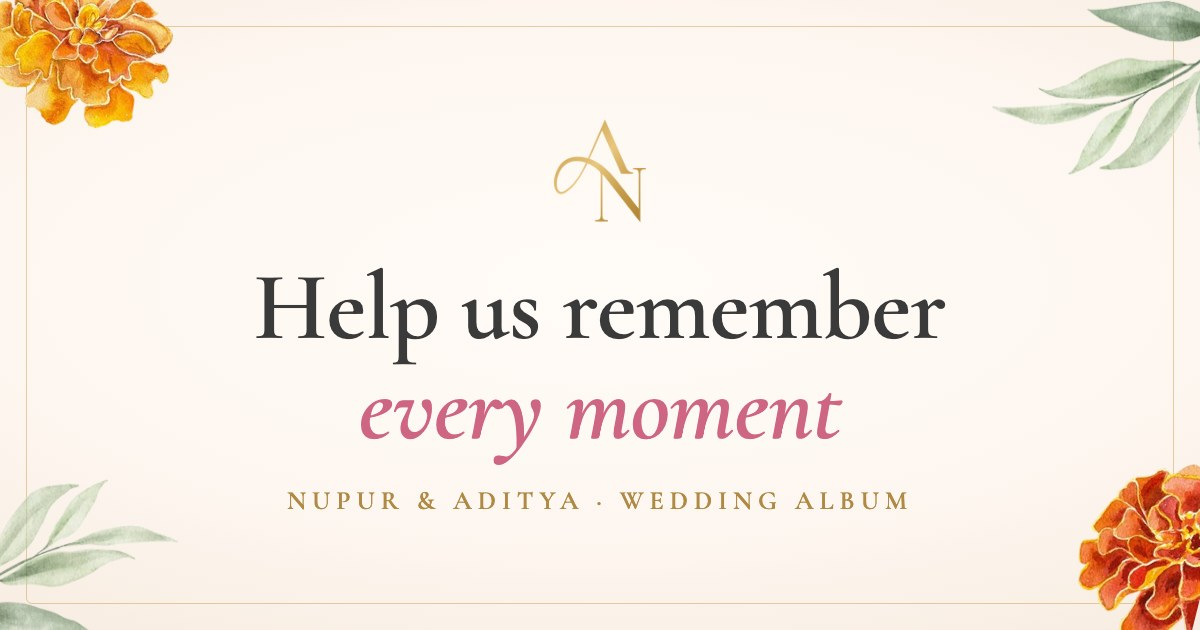
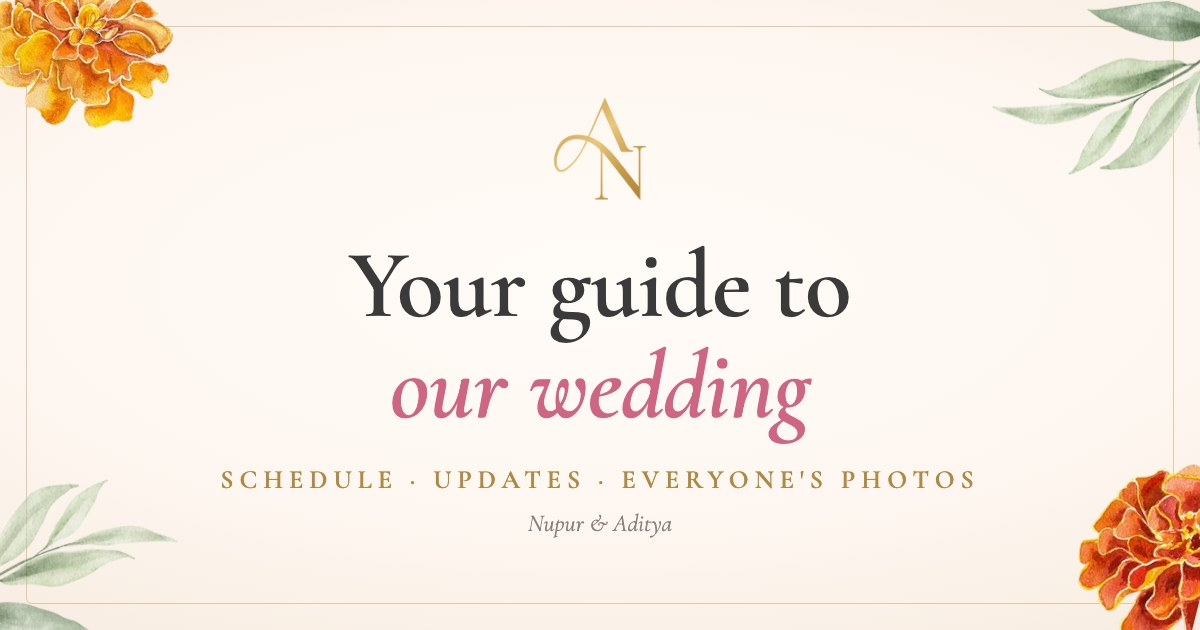
Photos site: link preview says 'Your guide to our wedding'

Changed region(s): [[0.185, 0.3921, 0.8325, 0.8444], [0.4625, 0.1508, 0.555, 0.3619]]

diff --git a/photos/index.html b/photos/index.html
@@ -9,24 +9,24 @@
 <!-- Google Drive image links refuse requests that carry a Referer header -->
 <meta name="referrer" content="no-referrer">
 <meta property="og:type" content="website">
-<meta property="og:title" content="Nupur &amp; Aditya · Wedding Album">
-<meta property="og:description" content="Share the moments you captured with us.">
-<meta property="og:image" content="https://nupurandaditya.online/photos/og.jpg?v=2">
-<meta property="og:image:secure_url" content="https://nupurandaditya.online/photos/og.jpg?v=2">
+<meta property="og:title" content="Nupur &amp; Aditya · Your guide to our wedding">
+<meta property="og:description" content="The schedule, updates from us, and everyone's photos, all in one place.">
+<meta property="og:image" content="https://nupurandaditya.online/photos/og.jpg?v=3">
+<meta property="og:image:secure_url" content="https://nupurandaditya.online/photos/og.jpg?v=3">
 <meta property="og:image:type" content="image/jpeg">
 <meta property="og:image:width" content="1200">
 <meta property="og:image:height" content="630">
-<meta property="og:image:alt" content="Help us remember every moment · Nupur & Aditya wedding album">
+<meta property="og:image:alt" content="Your guide to our wedding · Nupur &amp; Aditya">
 <meta property="og:url" content="https://nupurandaditya.online/photos/">
 <meta name="twitter:card" content="summary_large_image">
-<meta name="twitter:image" content="https://nupurandaditya.online/photos/og.jpg?v=2">
+<meta name="twitter:image" content="https://nupurandaditya.online/photos/og.jpg?v=3">
 <meta name="theme-color" content="#FEF7F1">
 <link rel="icon" type="image/png" href="/assets/an-monogram.png">
 <link rel="stylesheet" href="/assets/fonts.css">
 <link rel="preconnect" href="https://fonts.googleapis.com">
 <link rel="preconnect" href="https://fonts.gstatic.com" crossorigin>
 <link rel="stylesheet" href="https://fonts.googleapis.com/css2?family=DM+Sans:opsz,wght@9..40,400;9..40,500;9..40,600&display=swap">
-<link rel="stylesheet" href="style.css?v=202611152217">
+<link rel="stylesheet" href="style.css?v=202611152220">
 </head>
 <body>
 
@@ -429,7 +429,7 @@
 
 <div id="toast" class="toast" hidden></div>
 
-<script src="config.js?v=202611152217"></script>
-<script src="app.js?v=202611152217"></script>
+<script src="config.js?v=202611152220"></script>
+<script src="app.js?v=202611152220"></script>
 </body>
 </html>
